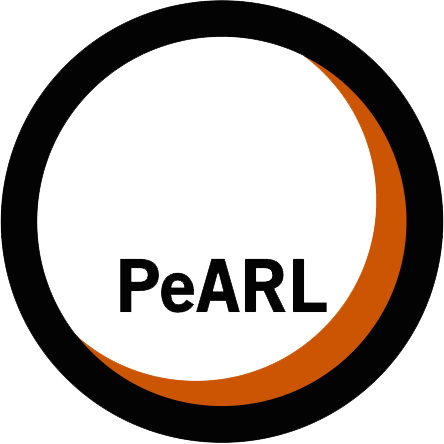
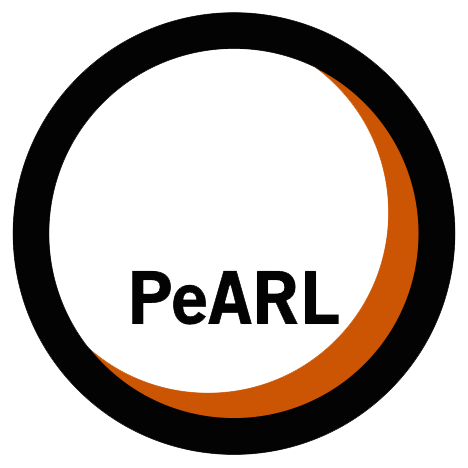
added github to experience and fixed some picture margins

Changed region(s): [[0.0586, 0.0586, 0.9369, 0.9369], [0.0, 0.0, 1.0, 1.0]]

diff --git a/src/app/CardExpand.js b/src/app/CardExpand.js
@@ -1,49 +1,49 @@
 import React, { PropTypes } from 'react';
 import { Button } from 'react-toolbox/lib/button';
-import { Card,CardMedia,CardTitle,CardText,CardActions} from 'react-toolbox/lib/card';
-import {IconButton} from 'react-toolbox/lib/button'
-import { Row,Col } from 'react-flexbox-grid/lib/';
+import { Card, CardMedia, CardTitle, CardText, CardActions} from 'react-toolbox/lib/card';
+import {IconButton} from 'react-toolbox/lib/button';
+import { Row, Col } from 'react-flexbox-grid/lib/';
 import theme from '../css/CardExpand.scss';
 import {Link} from 'react-router';
 import ReactGA from 'react-ga';
 
 //Custom Card Component class, takes in props for aspect ratio, image, title, subtitle, and learn more links
 class CardExpand extends React.Component{
-     constructor(props){
+     constructor (props){
        super(props);
        //Card is not expanded by default
-       this.state = {expanded:false};
+       this.state = {expanded: false};
      }
 
      //Changes toggle state and logs event for GA with title
-     toggleExpandState(){
-       this.setState({expanded:!this.state.expanded});
+     toggleExpandState (){
+       this.setState({expanded: !this.state.expanded});
        ReactGA.event({
-          category:'Navigation',
-          action:'Expanded card',
+          category: 'Navigation',
+          action: 'Expanded card',
           label: this.props.title
        });
      }
      //Triggers GA event for metrics
-     recordLearnMore(){
+     recordLearnMore (){
         ReactGA.event({
-           category:'Navigation',
-           action:'Learn More',
+           category: 'Navigation',
+           action: 'Learn More',
            label: this.props.title
         });
      }
 
-     render(){
+     render (){
 
-       return(
+       return (
          <Card onClick={this.toggleExpandState.bind(this)} className={theme.card}>
-           <CardMedia aspectRatio={this.props.wide ? 'wide':'square'} image={this.props.image}></CardMedia>
+           <CardMedia aspectRatio={this.props.wide ? 'wide' : 'square'} image={this.props.image}></CardMedia>
            <Row className={theme.row} middle="xs">
              <Col xs={10}>
                <CardTitle className={theme.title} title={this.props.title} subtitle={this.props.subtitle}/>
              </Col>
              <Col className={theme.icon} xs={2}>
-               <IconButton icon={this.state.expanded? 'keyboard_arrow_up':'keyboard_arrow_down'} primary />
+               <IconButton icon={this.state.expanded ? 'keyboard_arrow_up' : 'keyboard_arrow_down'} primary />
              </Col>
            </Row>
            {this.state.expanded &&
@@ -51,7 +51,7 @@ class CardExpand extends React.Component{
            }
            {this.props.link != null &&
              <CardActions>
-               {this.props.ext? <Button onClick={this.recordLearnMore.bind(this)} label="Learn More" href={this.props.link}/>:<Link to={this.props.link}><Button label="Learn More" /></Link>}
+               {this.props.ext ? <Button onClick={this.recordLearnMore.bind(this)} label="Learn More" href={this.props.link}/> : <Link to={this.props.link}><Button label="Learn More" /></Link>}
              </CardActions>
            }
          </Card>
@@ -59,8 +59,18 @@ class CardExpand extends React.Component{
      }
 }
 
+CardExpand.propTypes = {
+  ext: PropTypes.bool.isRequired,
+  image: PropTypes.string.isRequired,
+  link: PropTypes.string.isRequired,
+  subtitle: PropTypes.string.isRequired,
+  text: PropTypes.string.isRequired,
+  title: PropTypes.string.isRequired,
+  wide: PropTypes.bool.isRequired
+};
+
 CardExpand.defaultProps = {
-    ext:false
+    ext: false
 };
 
 export default CardExpand;

diff --git a/src/data/Data_Experience.js b/src/data/Data_Experience.js
@@ -1,11 +1,18 @@
 const experience = [
-   {
-      'id': 'sw_intern_datos',
+    {
+      'id': 'sw_intern_github',
       'title': 'Software Developer Intern',
-      'subtitle': 'Datos IO',
-      'image': 'datos.jpg',
-      'text': 'Designed and developed backup solution in Python for petabyte scale Hadoop clusters, took project from inception to POC ready.Primary contributor to UI design and fixes in Angular JS for RecoverX 2.0 product.'
-   },
+      'subtitle': 'GitHub',
+      'image': 'professortocat_v2_card.png',
+      'text': 'Working on GitHub Classroom and Classroom Desktop! GitHub Classroom makes it easy for teachers to distribute starter code and collect results for programmming assignments.'
+  },
+  {
+    'id': 'sw_intern_datos',
+    'title': 'Software Developer Intern',
+    'subtitle': 'Datos IO',
+    'image': 'datos_card.png',
+    'text': 'Designed and developed backup solution in Python for petabyte scale Hadoop clusters, took project from inception to POC ready.Primary contributor to UI design and fixes in Angular JS for RecoverX 2.0 product.'
+  },
   {
     'id': 'ug_researcher',
     'title': 'Undergraduate Researcher',

diff --git a/src/app/Home.js b/src/app/Home.js
@@ -1,4 +1,3 @@
-
 import React from 'react';
 import Landing from './Landing.jsx';
 import About from './About.js';

diff --git a/src/css/CardExpand.scss b/src/css/CardExpand.scss
@@ -1,7 +1,3 @@
- .image{
-  max-width: 100%;
-  max-height: 100%;
-}
 .text{
   text-align: left;
 }
